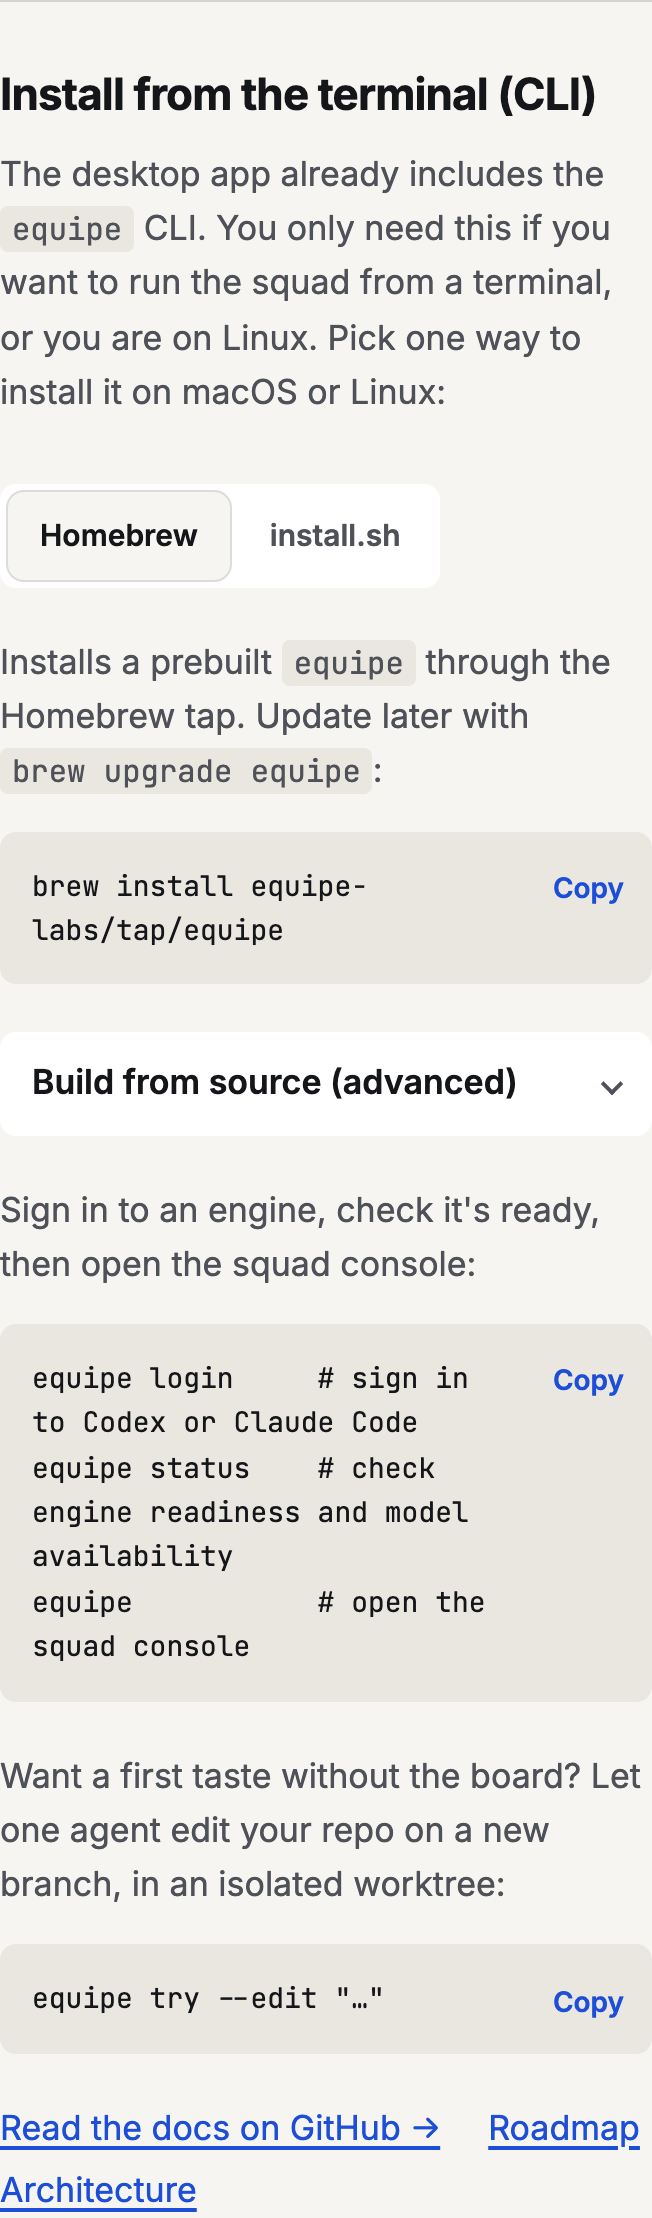
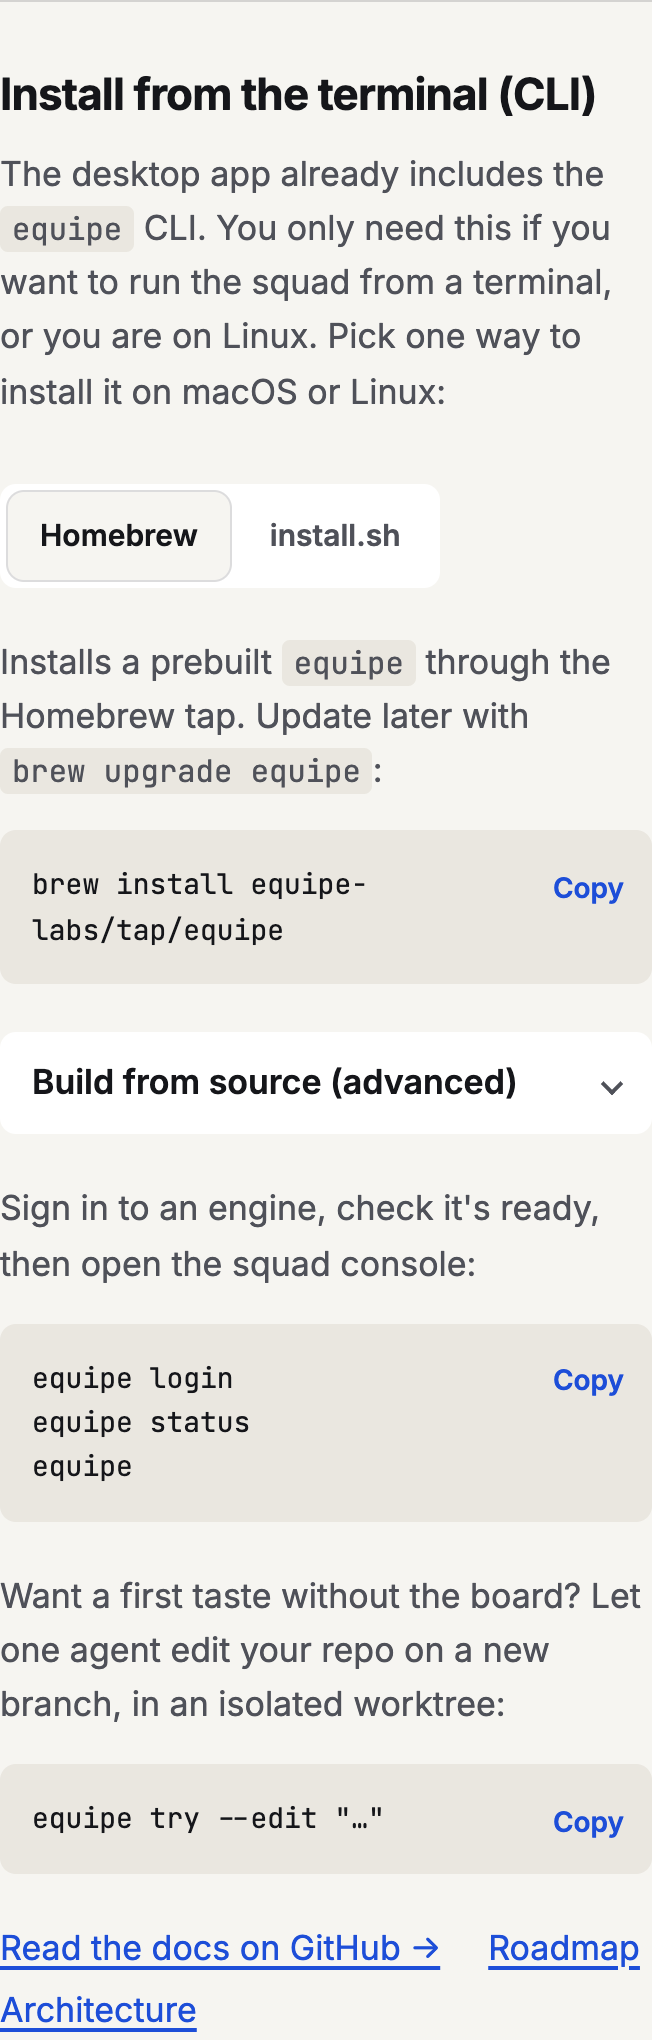
T-383 design QA: run block without shell comments, hint stays tight under the command at 390, map pictures and state note updated

diff --git a/src/styles/global.css b/src/styles/global.css
@@ -72,11 +72,12 @@ section { padding: var(--section-y) 0; }
 @media (min-width: 641px) { .notify { flex-direction: row; justify-content: space-between; align-items: center; gap: var(--s-5); } }
 
 /* code box: the text scrolls inside it, the Copy button sits beside it (never over the text), centred on the first line */
-.codeblock { display: flex; flex-wrap: wrap; align-items: flex-start; margin: var(--s-4) 0 var(--s-5); background: var(--code-bg); border-radius: var(--r-1); }
-pre { flex: 1 1 14em; min-width: 0; margin: 0; padding: var(--s-4); overflow-x: auto; font: 400 15px/1.6 var(--mono); white-space: pre; }
+.codeblock { display: flex; align-items: flex-start; margin: var(--s-4) 0 var(--s-5); background: var(--code-bg); border-radius: var(--r-1); }
+pre { flex: 1; min-width: 0; margin: 0; padding: var(--s-4); overflow-x: auto; font: 400 15px/1.6 var(--mono); white-space: pre; }
 pre code { background: none; padding: 0; font-size: inherit; }
 .copy { flex: none; display: none; min-width: var(--tap); min-height: var(--tap); margin: calc((24px + 2 * var(--s-4) - var(--tap)) / 2) var(--s-2) 0 auto; background: none; border: 0; color: var(--accent); font: 600 14px var(--sans); cursor: pointer; }
 .js .copy { display: block; }
+@media (max-width: 640px) { .codeblock:has(.copy.hint) { flex-wrap: wrap; } .codeblock:has(.copy.hint) pre { flex-basis: 100%; } .copy.hint { margin-top: calc(-1 * var(--s-3)); } }
 @media (max-width: 640px) { pre { font-size: 14px; white-space: pre-wrap; overflow-wrap: anywhere; } }
 .links, .foot-links { display: flex; flex-wrap: wrap; gap: var(--s-1) var(--s-5); }
 .links { margin: 0; }

diff --git a/src/i18n/ja.ts b/src/i18n/ja.ts
@@ -166,9 +166,9 @@ const ja: Messages = {
     sourceTitle: 'ソースからビルド（上級者向け）',
     source: '自分でビルドしたい場合は、ソースからもインストールできます。Rust 1.88+とgitが必要です。`github.com/equipe-labs/equipe`をcloneし、`cargo install --locked --path crates/cli`を実行してください。Claudeエンジンを使う場合は、`claude`バイナリも必要です。',
     run: 'エンジンにログインし、準備ができているか確認してから、スクワッドコンソールを開きます：',
-    runCode: `equipe login     # CodexまたはClaude Codeにログイン
-equipe status    # エンジンの準備状況とモデルの利用可否を確認
-equipe           # スクワッドコンソールを開く`,
+    runCode: `equipe login
+equipe status
+equipe`,
     tryIntro: 'まずはボードなしで試してみたい場合は、1つのエージェントに、分離されたworktree内の新しいブランチでリポジトリを編集させてみましょう：',
     docs: 'GitHubでドキュメントを読む →',
     roadmap: 'ロードマップ',

diff --git a/src/i18n/ko.ts b/src/i18n/ko.ts
@@ -168,9 +168,9 @@ const ko: Messages = {
     sourceTitle: '소스에서 빌드 (고급)',
     source: '직접 빌드하고 싶다면 소스에서 설치할 수도 있어요. Rust 1.88+와 git이 필요하고, `github.com/equipe-labs/equipe`를 clone한 뒤 `cargo install --locked --path crates/cli`를 실행하세요. Claude 엔진을 쓰려면 `claude` 바이너리도 있어야 해요.',
     run: '엔진에 로그인하고 준비됐는지 확인한 다음, 스쿼드 콘솔을 열어요.',
-    runCode: `equipe login     # Codex 또는 Claude Code에 로그인
-equipe status    # 엔진 준비 상태와 모델 사용 가능 여부 확인
-equipe           # 스쿼드 콘솔 열기`,
+    runCode: `equipe login
+equipe status
+equipe`,
     tryIntro: '보드 없이 먼저 맛만 보고 싶다면, 에이전트 하나가 격리된 worktree의 새 브랜치에서 저장소를 수정하게 해 보세요.',
     docs: 'GitHub에서 문서 읽기 →',
     roadmap: '로드맵',

diff --git a/src/i18n/fr.ts b/src/i18n/fr.ts
@@ -169,9 +169,9 @@ const fr: Messages = {
     sourceTitle: 'Compiler depuis les sources (avancé)',
     source: 'Vous préférez compiler vous-même\u202F? Installez depuis les sources avec Rust 1.88+ et git\u202F: clonez `github.com/equipe-labs/equipe`, puis lancez `cargo install --locked --path crates/cli`. Le moteur Claude requiert aussi le binaire `claude`.',
     run: 'Connectez-vous à un moteur, vérifiez qu’il est prêt, puis ouvrez la console du squad :',
-    runCode: `equipe login     # se connecter à Codex ou à Claude Code
-equipe status    # vérifier l'état du moteur et les modèles disponibles
-equipe           # ouvrir la console du squad`,
+    runCode: `equipe login
+equipe status
+equipe`,
     tryIntro: 'Envie d’un premier aperçu sans le tableau ? Laissez un agent modifier votre dépôt sur une nouvelle branche, dans un worktree isolé :',
     docs: 'Lire la documentation sur GitHub →',
     roadmap: 'Feuille de route',

diff --git a/src/i18n/de.ts b/src/i18n/de.ts
@@ -168,9 +168,9 @@ const de: Messages = {
     sourceTitle: 'Aus dem Quellcode bauen (für Fortgeschrittene)',
     source: 'Lieber selbst bauen? Dann installiere aus dem Quellcode mit Rust 1.88+ und git: Klone `github.com/equipe-labs/equipe` und führe `cargo install --locked --path crates/cli` aus. Die Claude-Engine braucht zusätzlich das `claude`-Binary.',
     run: 'Melde dich bei einer Engine an, prüfe, ob sie bereit ist, und öffne dann die Squad-Konsole:',
-    runCode: `equipe login     # bei Codex oder Claude Code anmelden
-equipe status    # Engine-Bereitschaft und verfügbare Modelle prüfen
-equipe           # Squad-Konsole öffnen`,
+    runCode: `equipe login
+equipe status
+equipe`,
     tryIntro: 'Du willst erst mal reinschnuppern, ohne das Board? Lass einen Agenten dein Repository auf einem neuen Branch bearbeiten, in einem isolierten Worktree:',
     docs: 'Doku auf GitHub lesen →',
     roadmap: 'Roadmap',

diff --git a/src/i18n/es.ts b/src/i18n/es.ts
@@ -168,9 +168,9 @@ const es: Messages = {
     sourceTitle: 'Compilar desde el código fuente (avanzado)',
     source: '¿Prefieres compilarlo tú? Instálalo desde el código fuente con Rust 1.88+ y git: clona `github.com/equipe-labs/equipe` y ejecuta `cargo install --locked --path crates/cli`. El motor de Claude necesita además el binario `claude`.',
     run: 'Inicia sesión en un motor, comprueba que está listo y abre la consola del squad:',
-    runCode: `equipe login     # inicia sesión en Codex o Claude Code
-equipe status    # comprueba si el motor está listo y qué modelos hay disponibles
-equipe           # abre la consola del squad`,
+    runCode: `equipe login
+equipe status
+equipe`,
     tryIntro: '¿Quieres probarlo antes sin el tablero? Deja que un agente edite tu repositorio en una rama nueva, en un worktree aislado:',
     docs: 'Lee la documentación en GitHub →',
     roadmap: 'Hoja de ruta',

diff --git a/src/i18n/pt-BR.ts b/src/i18n/pt-BR.ts
@@ -168,9 +168,9 @@ const ptBR: Messages = {
     sourceTitle: 'Compilar a partir do código-fonte (avançado)',
     source: 'Prefere compilar você mesmo? Instale a partir do código-fonte com Rust 1.88+ e git: clone `github.com/equipe-labs/equipe` e execute `cargo install --locked --path crates/cli`. O engine do Claude também precisa do binário `claude`.',
     run: 'Faça login em um engine, confira se ele está pronto e abra o console do squad:',
-    runCode: `equipe login     # faz login no Codex ou no Claude Code
-equipe status    # confere se o engine está pronto e quais modelos estão disponíveis
-equipe           # abre o console do squad`,
+    runCode: `equipe login
+equipe status
+equipe`,
     tryIntro: 'Quer experimentar antes, sem o quadro? Deixe um agente editar seu repositório em um novo branch, em um worktree isolado:',
     docs: 'Leia a documentação no GitHub →',
     roadmap: 'Roadmap',

diff --git a/src/i18n/en.ts b/src/i18n/en.ts
@@ -171,9 +171,9 @@ export const en = {
     source: 'Prefer to build it yourself? Install from source with Rust 1.88+ and git: clone `github.com/equipe-labs/equipe`, then run `cargo install --locked --path crates/cli`. The Claude engine also needs the `claude` binary.',
     run: 'Sign in to an engine, check it\'s ready, then open the squad console:',
     // Shell comments inside the code block may be translated; the commands must not be.
-    runCode: `equipe login     # sign in to Codex or Claude Code
-equipe status    # check engine readiness and model availability
-equipe           # open the squad console`,
+    runCode: `equipe login
+equipe status
+equipe`,
     tryIntro: 'Want a first taste without the board? Let one agent edit your repo on a new branch, in an isolated worktree:',
     docs: 'Read the docs on GitHub →',
     roadmap: 'Roadmap',

diff --git a/src/i18n/zh-CN.ts b/src/i18n/zh-CN.ts
@@ -166,9 +166,9 @@ const zhCN: Messages = {
     sourceTitle: '从源码构建（进阶）',
     source: '想自己编译的话，也可以从源码安装：需要 Rust 1.88+ 和 git，克隆 `github.com/equipe-labs/equipe`，然后运行 `cargo install --locked --path crates/cli`。使用 Claude 引擎还需要 `claude` 二进制文件。',
     run: '先登录引擎，确认它已就绪，再打开小队控制台：',
-    runCode: `equipe login     # 登录 Codex 或 Claude Code
-equipe status    # 检查引擎是否就绪、模型是否可用
-equipe           # 打开小队控制台`,
+    runCode: `equipe login
+equipe status
+equipe`,
     tryIntro: '想先不用看板，简单试一下？让一个智能体在隔离的 worktree 里，用一个新分支修改你的仓库：',
     docs: '在 GitHub 上阅读文档 →',
     roadmap: '路线图',
